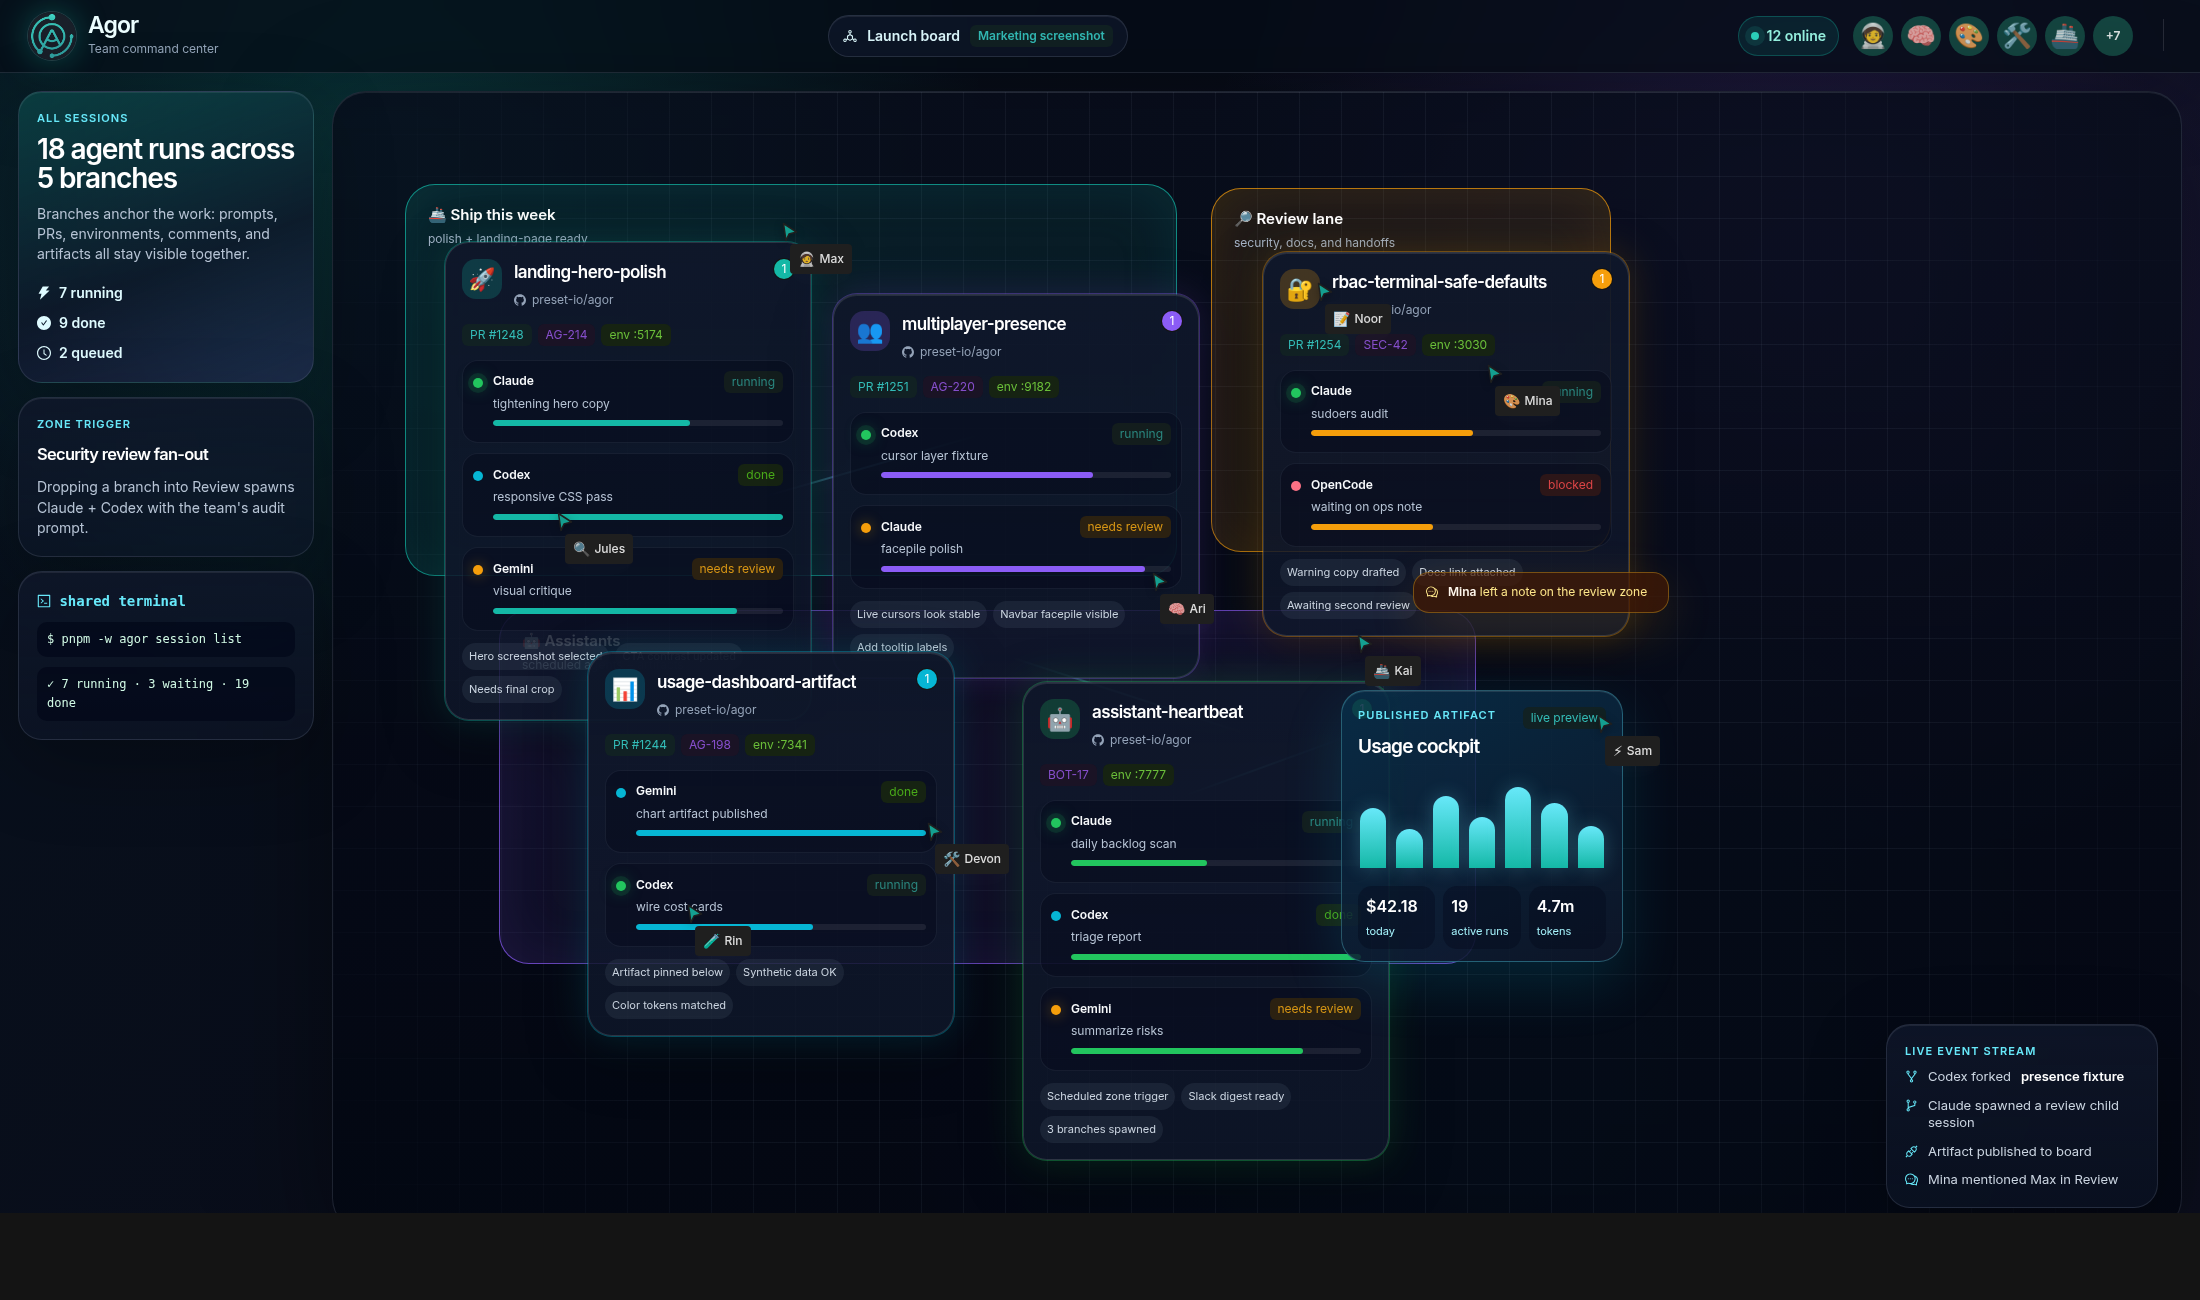
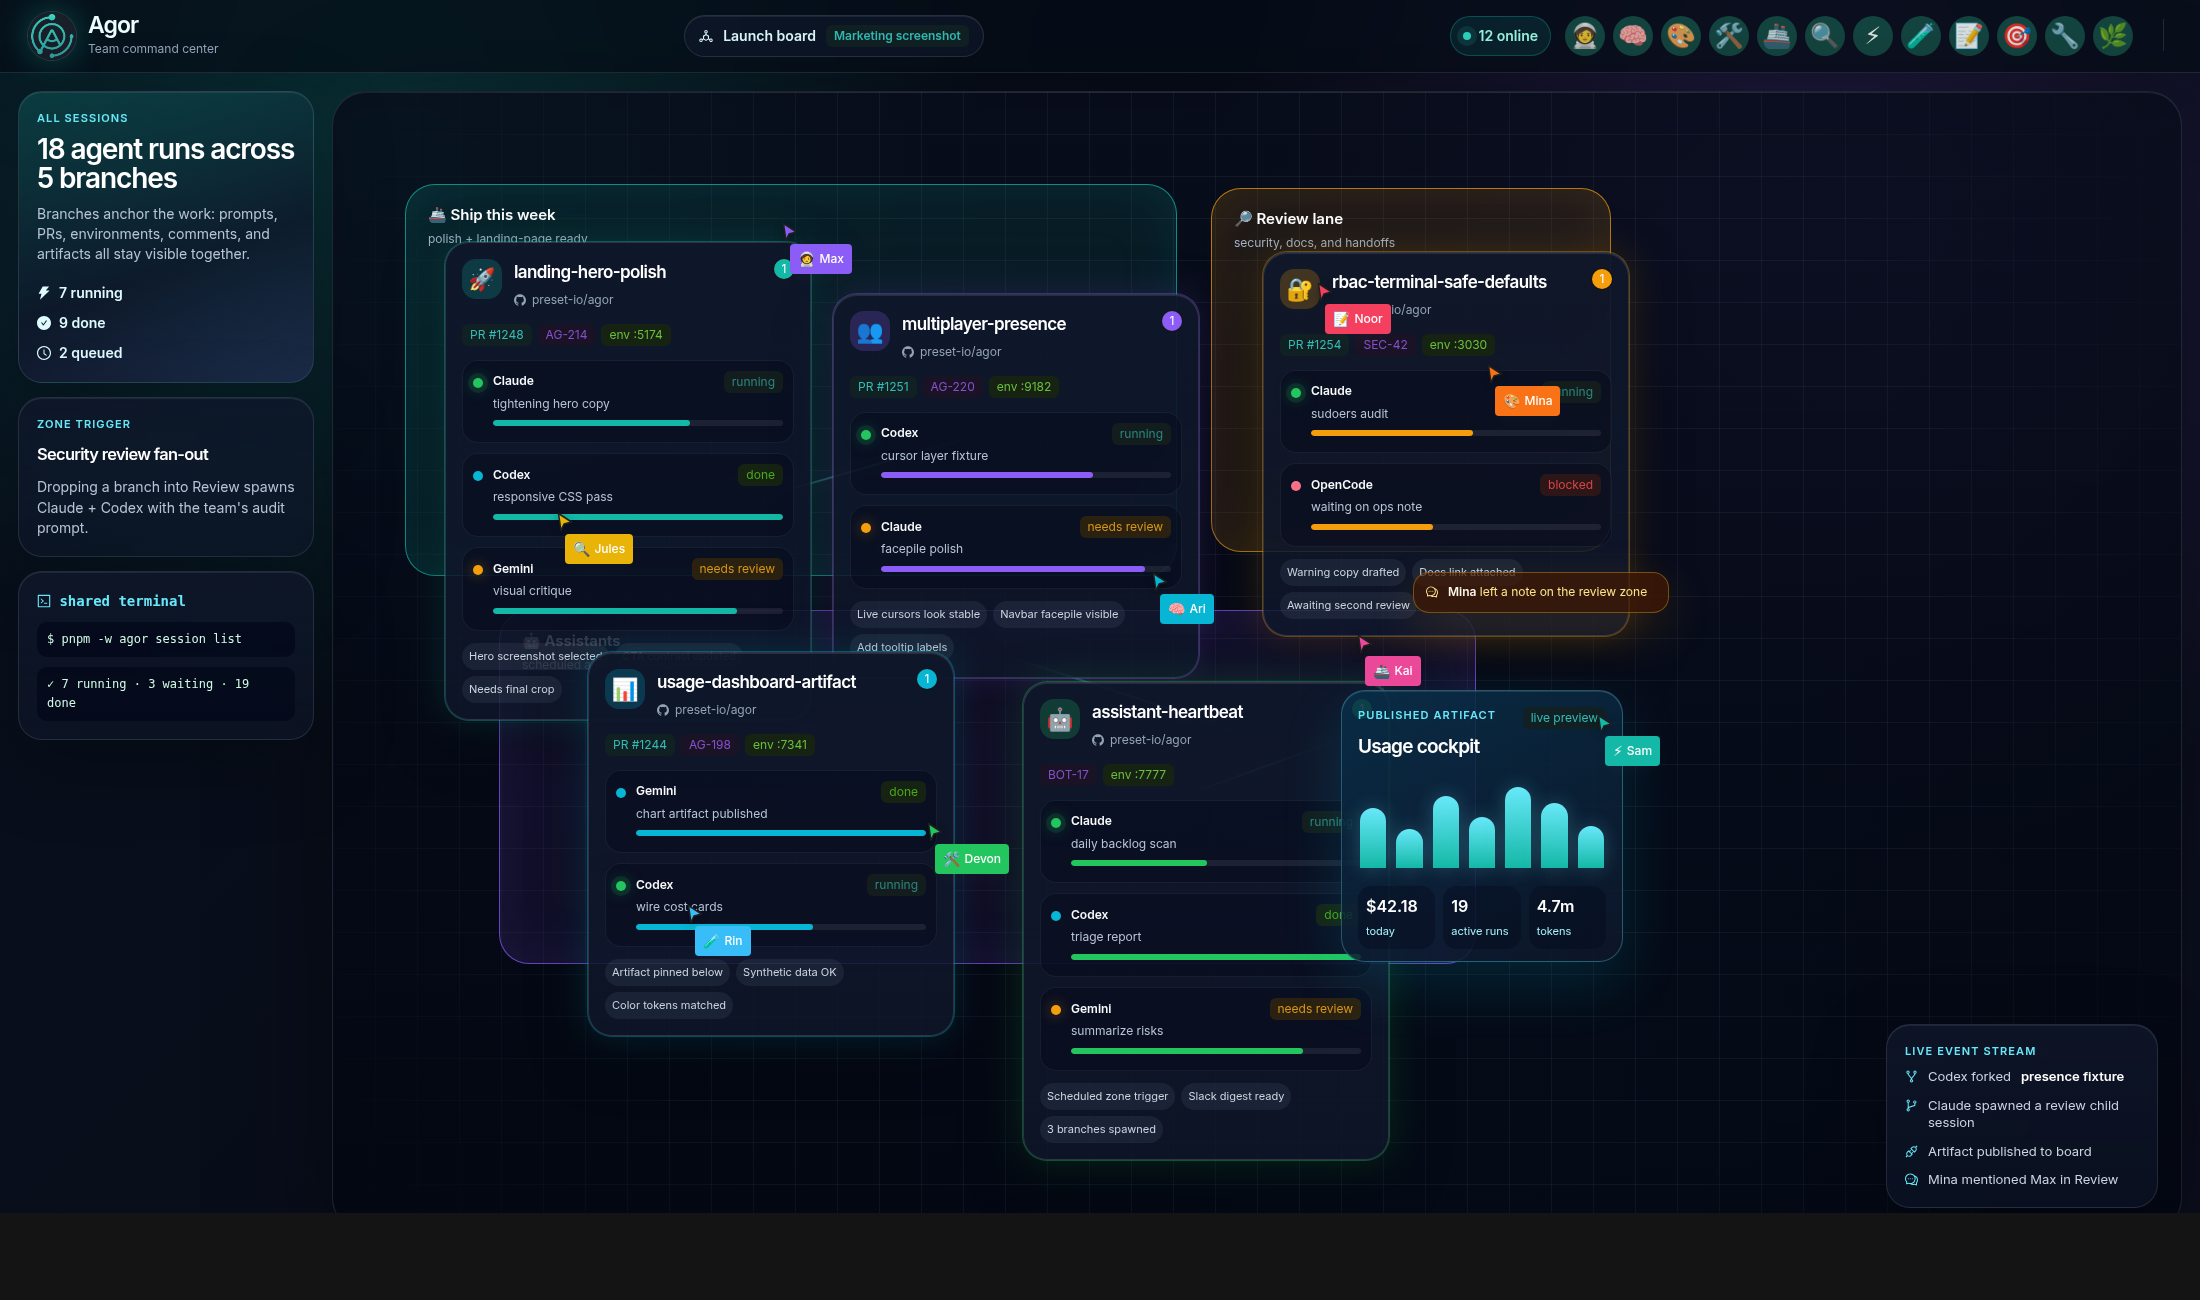
Make screenshot presence and cursors obvious

diff --git a/apps/agor-ui/src/components/SessionCanvas/canvas/RemoteCursorLayer.tsx b/apps/agor-ui/src/components/SessionCanvas/canvas/RemoteCursorLayer.tsx
@@ -10,6 +10,7 @@ export interface StaticRemoteCursor {
   x: number;
   y: number;
   user: User;
+  color?: string;
 }
 
 interface RemoteCursorLayerProps {
@@ -19,6 +20,8 @@ interface RemoteCursorLayerProps {
   enabled?: boolean;
   /** Demo/screenshot-only override: render fixed cursors without socket presence. */
   staticCursors?: StaticRemoteCursor[];
+  /** Demo/screenshot-only scale boost for static cursors. Live cursors default to 1. */
+  staticCursorScale?: number;
 }
 
 export const RemoteCursorLayer: React.FC<RemoteCursorLayerProps> = ({
@@ -27,6 +30,7 @@ export const RemoteCursorLayer: React.FC<RemoteCursorLayerProps> = ({
   users,
   enabled = true,
   staticCursors,
+  staticCursorScale = 1,
 }) => {
   const { token } = theme.useToken();
   const viewport = useViewport();
@@ -62,7 +66,7 @@ export const RemoteCursorLayer: React.FC<RemoteCursorLayerProps> = ({
         zIndex: 2000,
       }}
     >
-      {cursors.map(([userId, { x, y, user }]) => {
+      {cursors.map(([userId, { x, y, user, color }]) => {
         const screenX = x * viewport.zoom + viewport.x;
         const screenY = y * viewport.zoom + viewport.y;
 
@@ -71,7 +75,8 @@ export const RemoteCursorLayer: React.FC<RemoteCursorLayerProps> = ({
             key={userId}
             style={{
               position: 'absolute',
-              transform: `translate3d(${screenX}px, ${screenY}px, 0)`,
+              transform: `translate3d(${screenX}px, ${screenY}px, 0) scale(${staticCursorScale})`,
+              transformOrigin: 'top left',
               willChange: 'transform',
             }}
           >
@@ -90,7 +95,7 @@ export const RemoteCursorLayer: React.FC<RemoteCursorLayerProps> = ({
                 fill="none"
                 xmlns="http://www.w3.org/2000/svg"
                 style={{
-                  color: token.colorPrimary,
+                  color: color ?? token.colorPrimary,
                   filter: 'drop-shadow(0 2px 4px rgba(0, 0, 0, 0.3))',
                 }}
               >
@@ -116,8 +121,8 @@ export const RemoteCursorLayer: React.FC<RemoteCursorLayerProps> = ({
                   borderRadius: '4px',
                   fontSize: '12px',
                   whiteSpace: 'nowrap',
-                  background: token.colorBgElevated,
-                  color: token.colorText,
+                  background: color ? color : token.colorBgElevated,
+                  color: color ? '#ffffff' : token.colorText,
                   boxShadow: token.boxShadowSecondary,
                 }}
               >

diff --git a/apps/agor-ui/src/pages/MarketingScreenshotPage.tsx b/apps/agor-ui/src/pages/MarketingScreenshotPage.tsx
@@ -78,15 +78,15 @@ const DEMO_ACTIVE_USERS: ActiveUser[] = USERS.map((user, index) => ({
 }));
 
 const DEMO_CURSORS: StaticRemoteCursor[] = [
-  { userId: USERS[0].user_id, user: USERS[0], x: 445, y: 128 },
-  { userId: USERS[1].user_id, user: USERS[1], x: 815, y: 478 },
-  { userId: USERS[2].user_id, user: USERS[2], x: 1150, y: 270 },
-  { userId: USERS[3].user_id, user: USERS[3], x: 590, y: 728 },
-  { userId: USERS[4].user_id, user: USERS[4], x: 1020, y: 540 },
-  { userId: USERS[5].user_id, user: USERS[5], x: 220, y: 418 },
-  { userId: USERS[6].user_id, user: USERS[6], x: 1260, y: 620 },
-  { userId: USERS[7].user_id, user: USERS[7], x: 350, y: 810 },
-  { userId: USERS[8].user_id, user: USERS[8], x: 980, y: 188 },
+  { userId: USERS[0].user_id, user: USERS[0], color: '#8b5cf6', x: 445, y: 128 },
+  { userId: USERS[1].user_id, user: USERS[1], color: '#06b6d4', x: 815, y: 478 },
+  { userId: USERS[2].user_id, user: USERS[2], color: '#f97316', x: 1150, y: 270 },
+  { userId: USERS[3].user_id, user: USERS[3], color: '#22c55e', x: 590, y: 728 },
+  { userId: USERS[4].user_id, user: USERS[4], color: '#ec4899', x: 1020, y: 540 },
+  { userId: USERS[5].user_id, user: USERS[5], color: '#eab308', x: 220, y: 418 },
+  { userId: USERS[6].user_id, user: USERS[6], color: '#14b8a6', x: 1260, y: 620 },
+  { userId: USERS[7].user_id, user: USERS[7], color: '#38bdf8', x: 350, y: 810 },
+  { userId: USERS[8].user_id, user: USERS[8], color: '#f43f5e', x: 980, y: 188 },
 ];
 
 const BRANCHES: DemoBranch[] = [
@@ -373,6 +373,7 @@ export const MarketingScreenshotPage = () => {
               currentUser={USERS[0]}
               boardById={DEMO_BOARD_BY_ID}
               staticActiveUsers={DEMO_ACTIVE_USERS}
+              maxVisible={12}
             />
           </div>
         </header>

diff --git a/apps/agor-ui/src/components/AppHeader/GlobalPresenceFacepile.tsx b/apps/agor-ui/src/components/AppHeader/GlobalPresenceFacepile.tsx
@@ -18,6 +18,8 @@ interface GlobalPresenceFacepileProps {
   ) => void;
   /** Demo/screenshot-only override: render a fixed facepile without live socket presence. */
   staticActiveUsers?: ActiveUser[];
+  /** Override visible avatar count for demo/screenshot compositions. */
+  maxVisible?: number;
 }
 
 export const GlobalPresenceFacepile: React.FC<GlobalPresenceFacepileProps> = ({
@@ -28,6 +30,7 @@ export const GlobalPresenceFacepile: React.FC<GlobalPresenceFacepileProps> = ({
   boardById,
   onUserClick,
   staticActiveUsers,
+  maxVisible = 5,
 }) => {
   const { activeUsers } = usePresence({
     client,
@@ -60,7 +63,7 @@ export const GlobalPresenceFacepile: React.FC<GlobalPresenceFacepileProps> = ({
       <Facepile
         activeUsers={allActiveUsers}
         currentUserId={currentUser?.user_id}
-        maxVisible={5}
+        maxVisible={maxVisible}
         boardById={boardById}
         onUserClick={onUserClick}
         style={{
